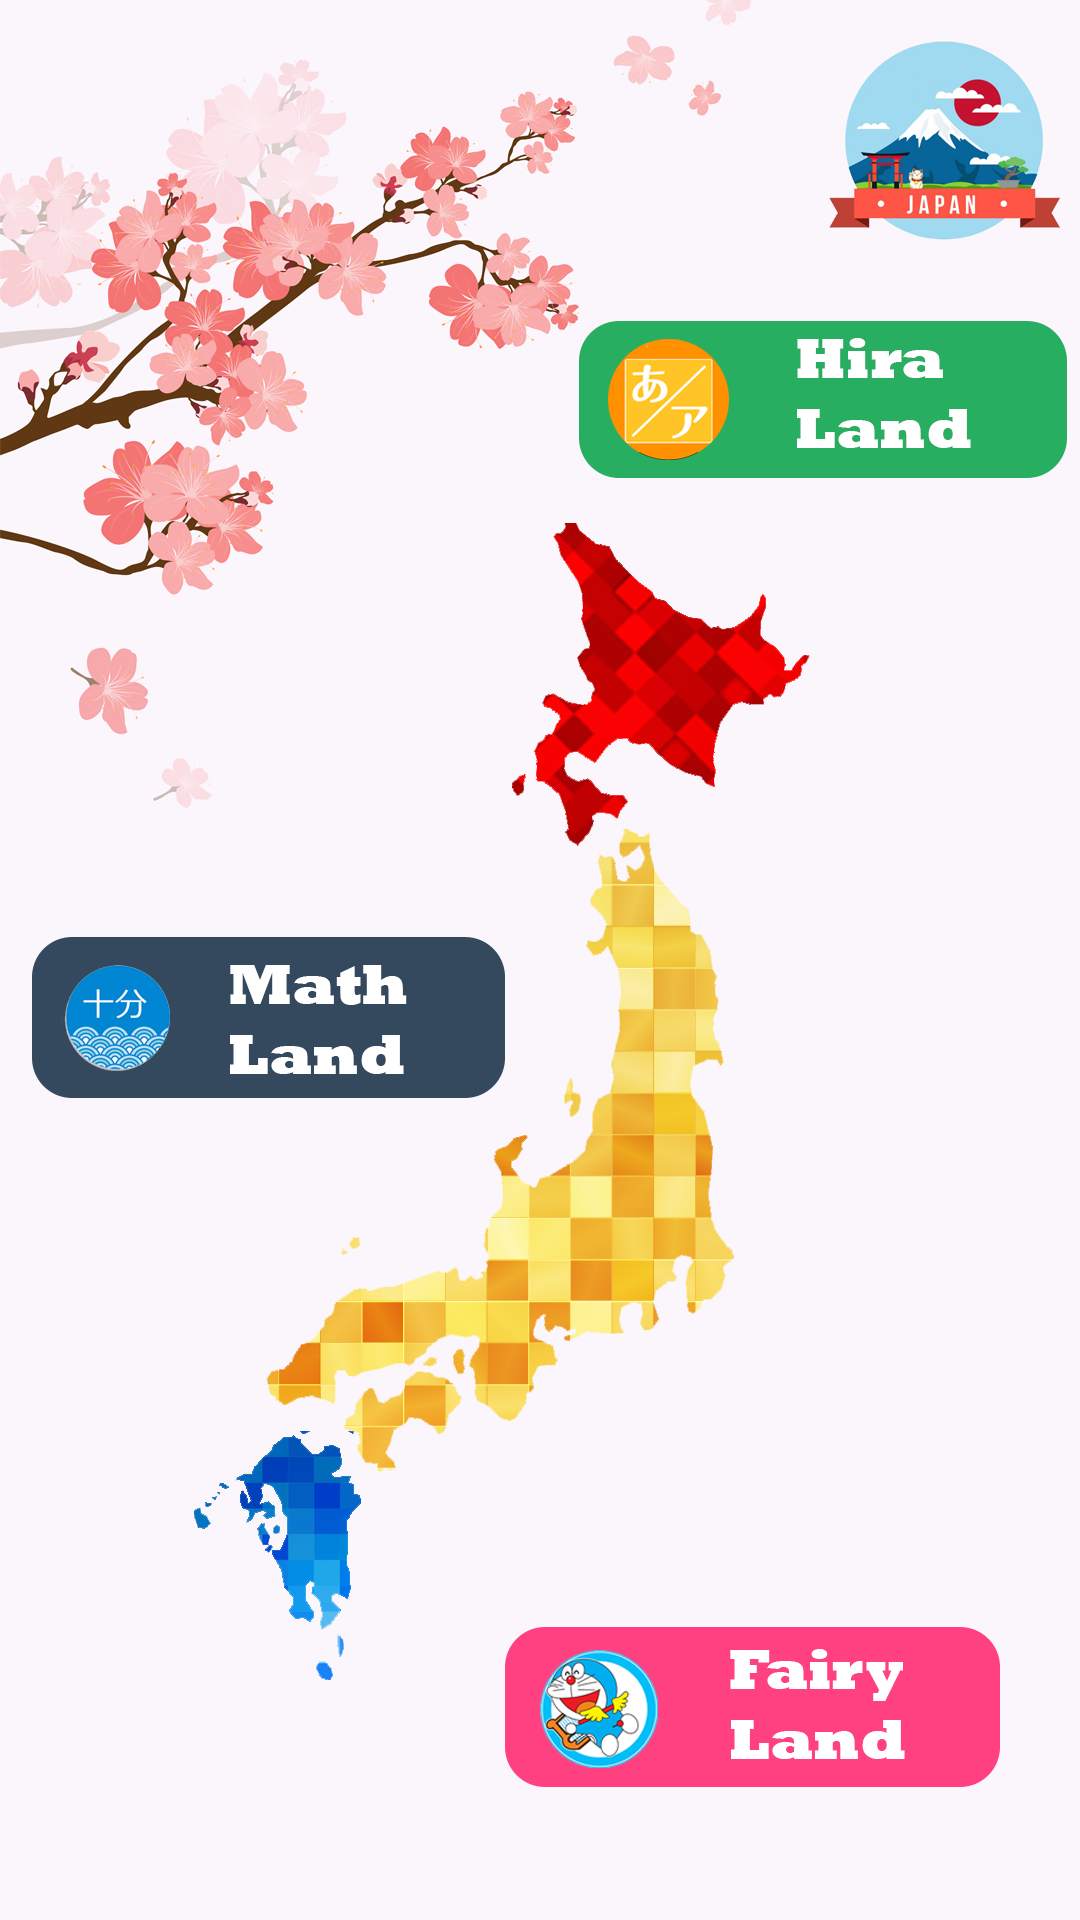
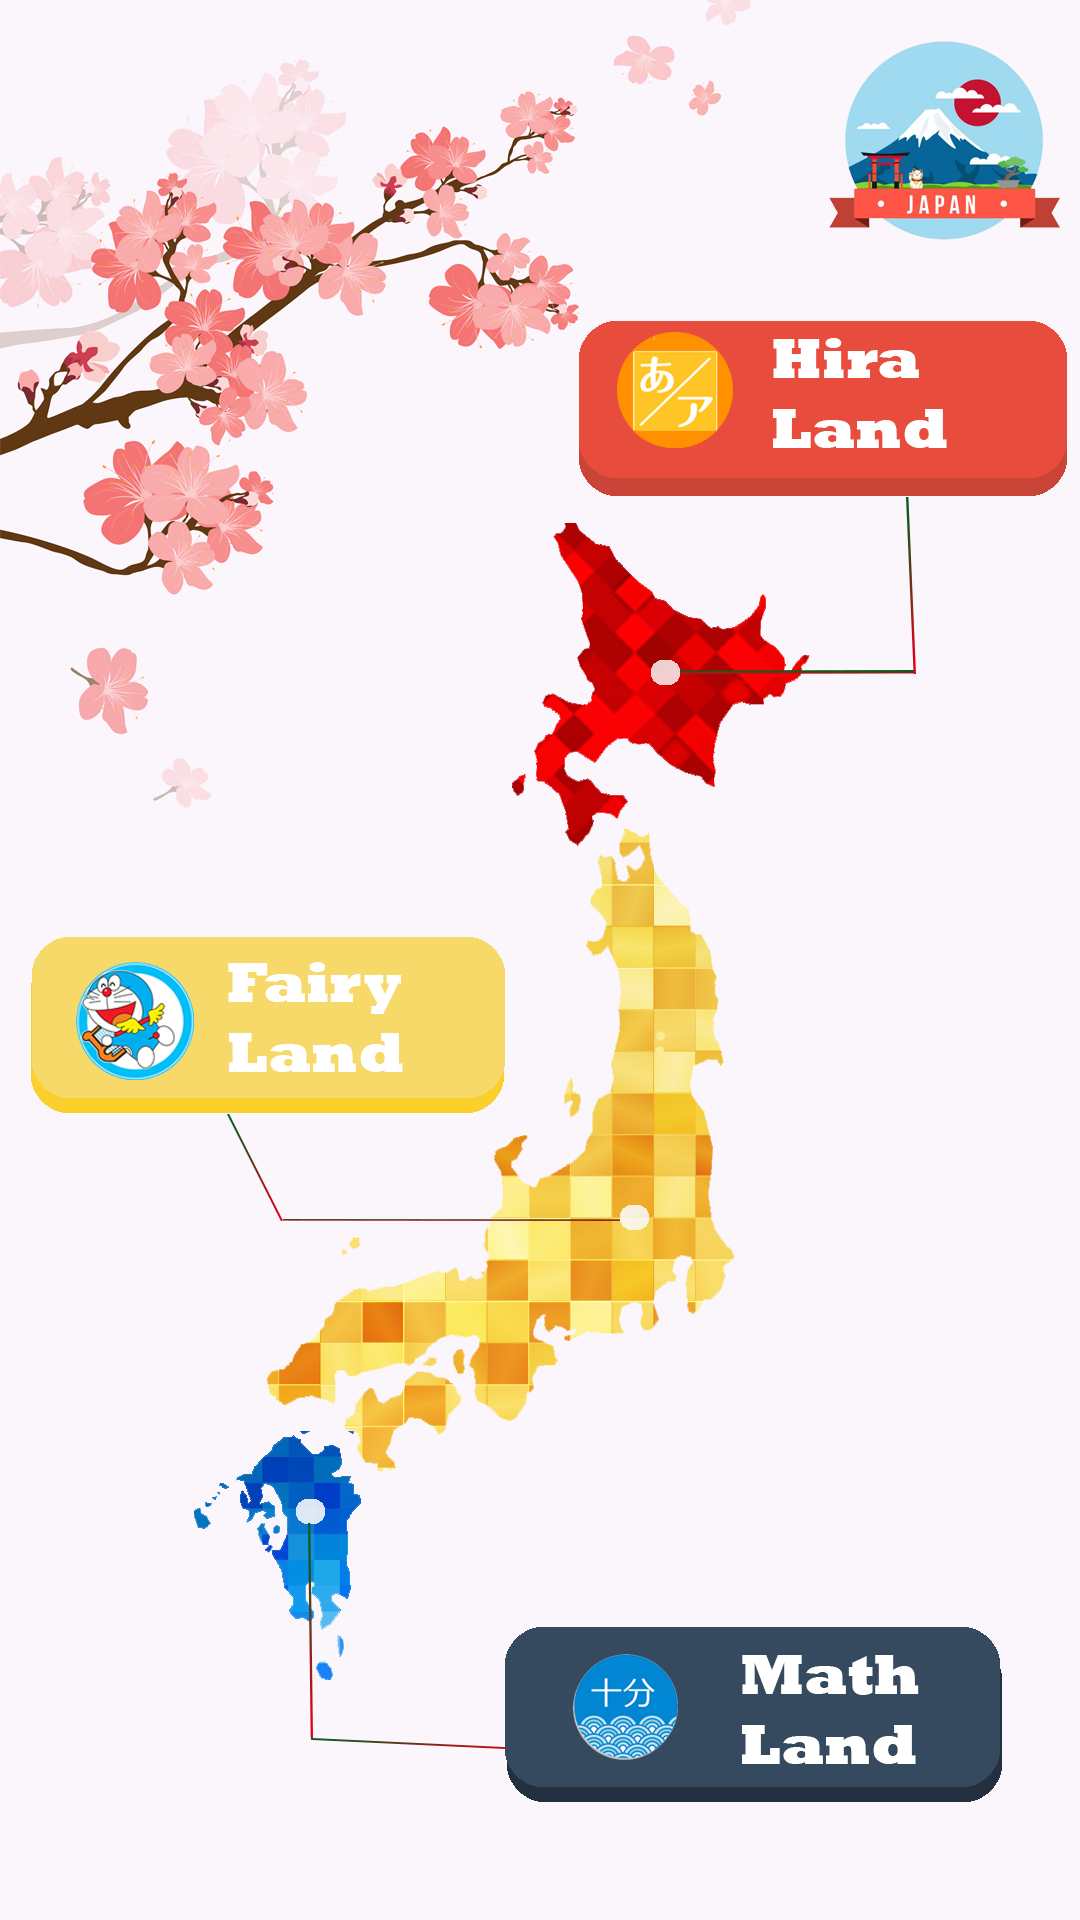
CompleteGame: Change background for main game

diff --git a/CompleteGame/core/src/dev/game/modules/MainGameModule.java b/CompleteGame/core/src/dev/game/modules/MainGameModule.java
@@ -16,7 +16,7 @@ public class MainGameModule extends Module {
     private Texture background;
     private Texture cloud1, cloud2;
     private float xCloud1, xCloud2;
-    private BitmapFont gameTitle;
+    private BitmapFont gameTitle, gameTitle1, gameTitle2;
 
     public MainGameModule(GameHandler gameHandler, GameModuleManager cpanel) {
         super(gameHandler, cpanel);
@@ -35,25 +35,45 @@ public class MainGameModule extends Module {
         FreeTypeFontGenerator.FreeTypeFontParameter parameter =
                 new FreeTypeFontGenerator.FreeTypeFontParameter();
         parameter.size = GameHandler.GAME_WIDTH / 6;
-        parameter.characters = "GameTitle";
+        parameter.characters = "SakuranoShima";
+
+        // Sakura
         gameTitle = generator.generateFont(parameter);
         gameTitle.setColor(Color.valueOf("#c04331"));
+
+        // No
+        gameTitle1 = generator.generateFont(parameter);
+        gameTitle1.setColor(Color.valueOf("#c04331"));
+
+        //Shima
+        gameTitle2 = generator.generateFont(parameter);
+        gameTitle2.setColor(Color.valueOf("#c04331"));
+
         generator.dispose();
+    }
+
+    private void handleInput() {
+        if (Gdx.input.justTouched()) {
+            if (Gdx.input.getX() >= GameHandler.GAME_WIDTH * 0.26f
+                    && Gdx.input.getX() <= GameHandler.GAME_WIDTH * 0.72f
+                    && Gdx.input.getY() >= GameHandler.GAME_HEIGHT * 0.43f
+                    && Gdx.input.getY() <= GameHandler.GAME_HEIGHT * 0.52f) {
+                cpanel.set(new ModuleStart(gameHandler, cpanel));
+            }
+        }
     }
 
     @Override
     public void tick() {
-        if (Gdx.input.justTouched()) {
-            cpanel.set(new ModuleStart(gameHandler, cpanel));
-        }
-        xCloud1 += 0.25;
-        xCloud2 -= 0.25;
+        xCloud1 += GameHandler.GAME_WIDTH / 1800f;
+        xCloud2 -= GameHandler.GAME_WIDTH / 1200f;
         if (xCloud1 >= GameHandler.GAME_WIDTH) {
             xCloud1 = 0 - GameHandler.GAME_WIDTH * 0.25f;
         }
         if (xCloud2 <= 0 - GameHandler.GAME_WIDTH * 0.25f) {
             xCloud2 = GameHandler.GAME_WIDTH;
         }
+        handleInput();
     }
 
     @Override
@@ -61,14 +81,17 @@ public class MainGameModule extends Module {
         batch.begin();
         batch.draw(background, 0, 0, GameHandler.GAME_WIDTH, GameHandler.GAME_HEIGHT);
         batch.draw(cloud1, xCloud1, GameHandler.GAME_HEIGHT * 0.65f,
-                    GameHandler.GAME_WIDTH * 0.25f, GameHandler.GAME_HEIGHT * 0.07f);
+                GameHandler.GAME_WIDTH * 0.25f, GameHandler.GAME_HEIGHT * 0.07f);
         batch.draw(cloud2, xCloud2, GameHandler.GAME_HEIGHT * 0.83f,
                 GameHandler.GAME_WIDTH * 0.25f, GameHandler.GAME_HEIGHT * 0.07f);
         batch.draw(cloud2, xCloud1, GameHandler.GAME_HEIGHT * 0.87f,
                 GameHandler.GAME_WIDTH * 0.15f, GameHandler.GAME_HEIGHT * 0.05f);
-        gameTitle.draw(batch, "Game Title",
+        gameTitle.draw(batch, "Sakura no",
                 GameHandler.GAME_WIDTH * 0.2f,
-                GameHandler.GAME_HEIGHT * 0.8f);
+                GameHandler.GAME_HEIGHT * 0.89f);
+        gameTitle.draw(batch, "Shima",
+                GameHandler.GAME_WIDTH * 0.33f,
+                GameHandler.GAME_HEIGHT * 0.80f);
         batch.end();
     }
 
@@ -78,5 +101,7 @@ public class MainGameModule extends Module {
         cloud1.dispose();
         cloud2.dispose();
         gameTitle.dispose();
+        gameTitle1.dispose();
+        gameTitle2.dispose();
     }
 }

diff --git a/CompleteGame/core/src/dev/game/freaking/states/PlayState.java b/CompleteGame/core/src/dev/game/freaking/states/PlayState.java
@@ -49,7 +49,7 @@ public class PlayState extends State {
         SCREEN_WIDTH = GameHandler.GAME_WIDTH;
         SCREEN_HEIGHT = GameHandler.GAME_HEIGHT;
         ACHIEVED_SCORE = 0;
-        slider=new Slider(freakingHandler, HARD_LEVEL);
+        slider = new Slider(freakingHandler, HARD_LEVEL);
         slider.setRunning(false);
         init();
         generateFont();
@@ -155,7 +155,7 @@ public class PlayState extends State {
             Music.play("gameover");
             Assets.updateHighScore(ACHIEVED_SCORE);
 //            HIGH_SCORE = Math.max(HIGH_SCORE, ACHIEVED_SCORE);
-            gsm.set(new GameOverState(freakingHandler, gsm,ACHIEVED_SCORE, cpanel, gameHandler));
+            gsm.set(new GameOverState(freakingHandler, gsm, ACHIEVED_SCORE, cpanel, gameHandler));
         }
         scoreText = String.valueOf(ACHIEVED_SCORE);
     }
@@ -181,12 +181,11 @@ public class PlayState extends State {
         shape.end();
 
 
-
         // ----------------BUTTON RENDERER------------------
         batch.begin();
         // Button 1 + 2 (shape)
         batch.draw(buttonCases[buttonPressed1], SCREEN_WIDTH * 0.03f, SCREEN_HEIGHT * 0.02f,
-                                    SCREEN_WIDTH * 0.45f, SCREEN_HEIGHT * 0.26f);
+                SCREEN_WIDTH * 0.45f, SCREEN_HEIGHT * 0.26f);
         batch.draw(buttonCases[buttonPressed2], SCREEN_WIDTH * 0.52f, SCREEN_HEIGHT * 0.02f,
                 SCREEN_WIDTH * 0.45f, SCREEN_HEIGHT * 0.26f);
         batch.end();
@@ -204,7 +203,7 @@ public class PlayState extends State {
                 SCREEN_HEIGHT * 0.2f);
         scoreFont.setColor(Color.valueOf("#f9f6f2"));
         scoreFont.draw(batch, scoreText, SCREEN_WIDTH * 0.8f,
-                                    SCREEN_HEIGHT * 0.8f);
+                SCREEN_HEIGHT * 0.8f);
         batch.end();
 
         if (slider != null) {
@@ -244,12 +243,15 @@ public class PlayState extends State {
     public static void setAlphabetType(int alphabetType) {
         PlayState.ALPHABET_TYPE = alphabetType;
     }
-    public static void setHardLevel(int hardLevel){PlayState.HARD_LEVEL=hardLevel;}
+
+    public static void setHardLevel(int hardLevel) {
+        PlayState.HARD_LEVEL = hardLevel;
+    }
 
     //if chose case 1
     public void answerCase1() {
         if (slider == null) {
-            slider = new Slider(freakingHandler,HARD_LEVEL);
+            slider = new Slider(freakingHandler, HARD_LEVEL);
         }
         if (trueLT.equalsIgnoreCase(caseLT1.trim())) {
             ACHIEVED_SCORE += 1;
@@ -266,7 +268,7 @@ public class PlayState extends State {
     //if chose case 2
     public void answerCase2() {
         if (slider == null) {
-            slider = new Slider(freakingHandler,HARD_LEVEL);
+            slider = new Slider(freakingHandler, HARD_LEVEL);
         }
 
         if (!trueLT.equalsIgnoreCase(caseLT1.trim())) {

diff --git a/CompleteGame/core/src/dev/game/modules/ModuleStart.java b/CompleteGame/core/src/dev/game/modules/ModuleStart.java
@@ -24,7 +24,7 @@ public class ModuleStart extends Module {
                     && Gdx.input.getX() <= GameHandler.GAME_WIDTH * (0.03f + 0.44f)
                     && Gdx.input.getY() >= GameHandler.GAME_HEIGHT * 0.485f
                     && Gdx.input.getY() <= GameHandler.GAME_HEIGHT * (0.485f + 0.08f)) {
-                cpanel.set(new ModuleKanji(gameHandler, cpanel));
+                cpanel.set(new ModuleDoremon(gameHandler, cpanel));
             }
 
             // Game Hira
@@ -40,7 +40,7 @@ public class ModuleStart extends Module {
                     && Gdx.input.getX() <= GameHandler.GAME_WIDTH * (0.475f + 0.44f)
                     && Gdx.input.getY() >= GameHandler.GAME_HEIGHT * 0.847f
                     && Gdx.input.getY() <= GameHandler.GAME_HEIGHT * (0.847f + 0.08f)) {
-                cpanel.set(new ModuleDoremon(gameHandler, cpanel));
+                cpanel.set(new ModuleKanji(gameHandler, cpanel));
             }
         }
     }

diff --git a/CompleteGame/core/src/dev/game/freaking/controller/Slider.java b/CompleteGame/core/src/dev/game/freaking/controller/Slider.java
@@ -26,12 +26,12 @@ public class Slider {
 
         this.x = 0;
         this.y = GameHandler.GAME_HEIGHT * 0.8f;
-        if(SPEED==1){
-            Slider.SPEED=Gdx.graphics.getWidth() / 55;
-        }else if(SPEED==2){
-            Slider.SPEED=Gdx.graphics.getWidth() / 75;
-        }else if(SPEED==3){
-            Slider.SPEED=Gdx.graphics.getWidth() / 100;
+        if (SPEED == 1) {
+            Slider.SPEED = Gdx.graphics.getWidth() / 55;
+        } else if (SPEED == 2) {
+            Slider.SPEED = Gdx.graphics.getWidth() / 75;
+        } else if (SPEED == 3) {
+            Slider.SPEED = Gdx.graphics.getWidth() / 100;
         }
         this.y = GameHandler.GAME_HEIGHT * 0.85f;
     }
